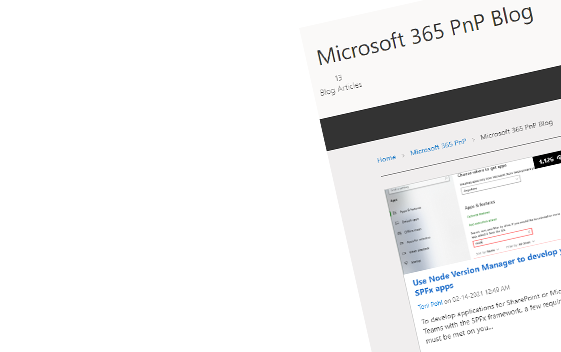
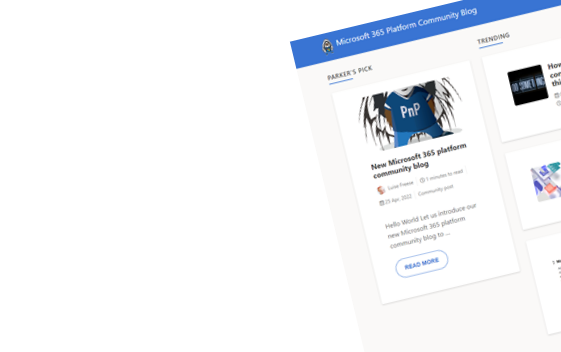
Replacing Tech Community card with new blog

Changed region(s): [[0.5455, 0.1562, 1.0, 0.9688], [0.5152, 0.0, 1.0, 0.2812]]

diff --git a/index.html b/index.html
@@ -397,14 +397,14 @@
             <div class="lnd_card_template _33">
               <div class="lnd_card_text_wrap">
                 <h6 class="lnd_h6">GUIDANCE</h6>
-                <h6 class="lnd_card_title">Microsoft 365 PnP on Tech Community</h6>
-                <div class="lnd_paragraph">A place to connect, collaborate, share & learn from experts.</div>
-                <a href="https://techcommunity.microsoft.com/t5/microsoft-365-pnp-blog/bg-p/Microsoft365PnPBlog?WT.mc_id=m365-12936-cxa" data-w-id="6c9d7122-856c-3973-5c8e-848539be7995"
+                <h6 class="lnd_card_title">Microsoft 365 Platform Community Blog</h6>
+                <div class="lnd_paragraph">Community news, updates and articles.</div>
+                <a href="https://pnp.github.io/blog" data-w-id="6c9d7122-856c-3973-5c8e-848539be7995"
                   class="button-wrapper w-inline-block">
                   <div class="button-text">LEARN MORE</div>
                   <div class="fdml button-arrow-2"></div>
                 </a>
-              </div><a href="https://techcommunity.microsoft.com/t5/microsoft-365-pnp-blog/bg-p/Microsoft365PnPBlog?WT.mc_id=m365-12936-cxa" class="lnd_card_link w-inline-block"></a>
+              </div><a href="https://pnp.github.io/blog" class="lnd_card_link w-inline-block"></a>
             </div>
           </div>
           <div id="sp-dev-modernization">
